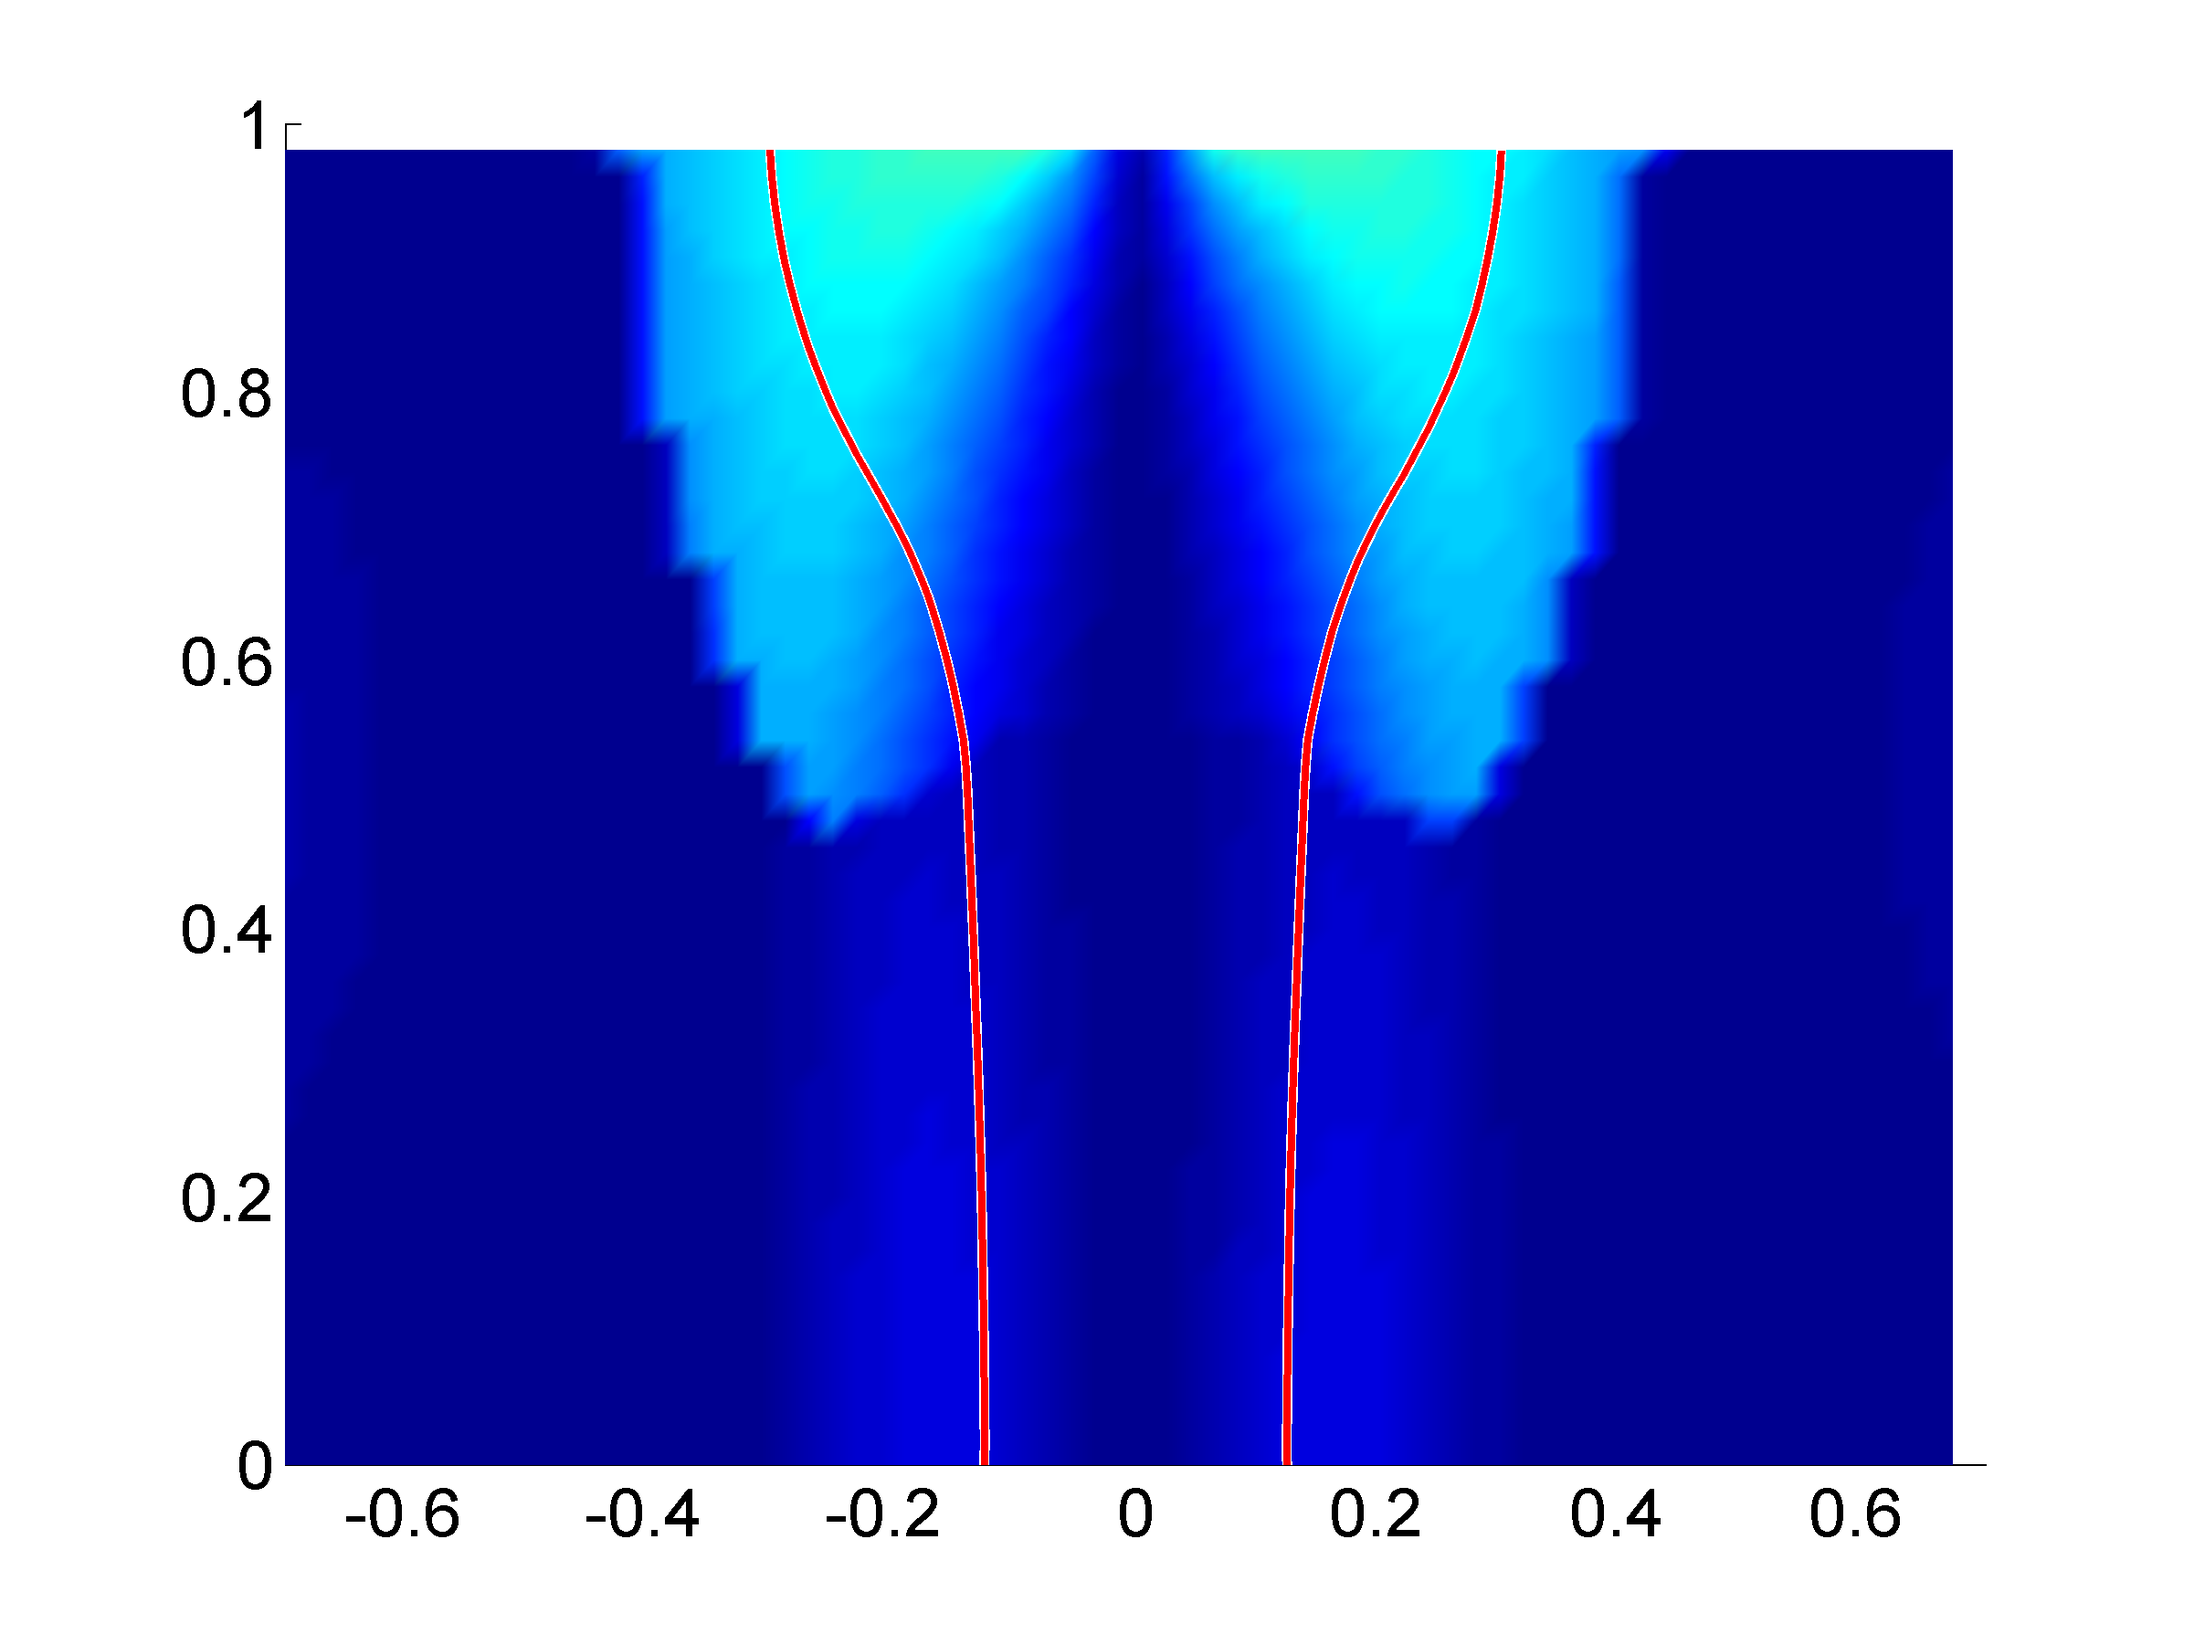
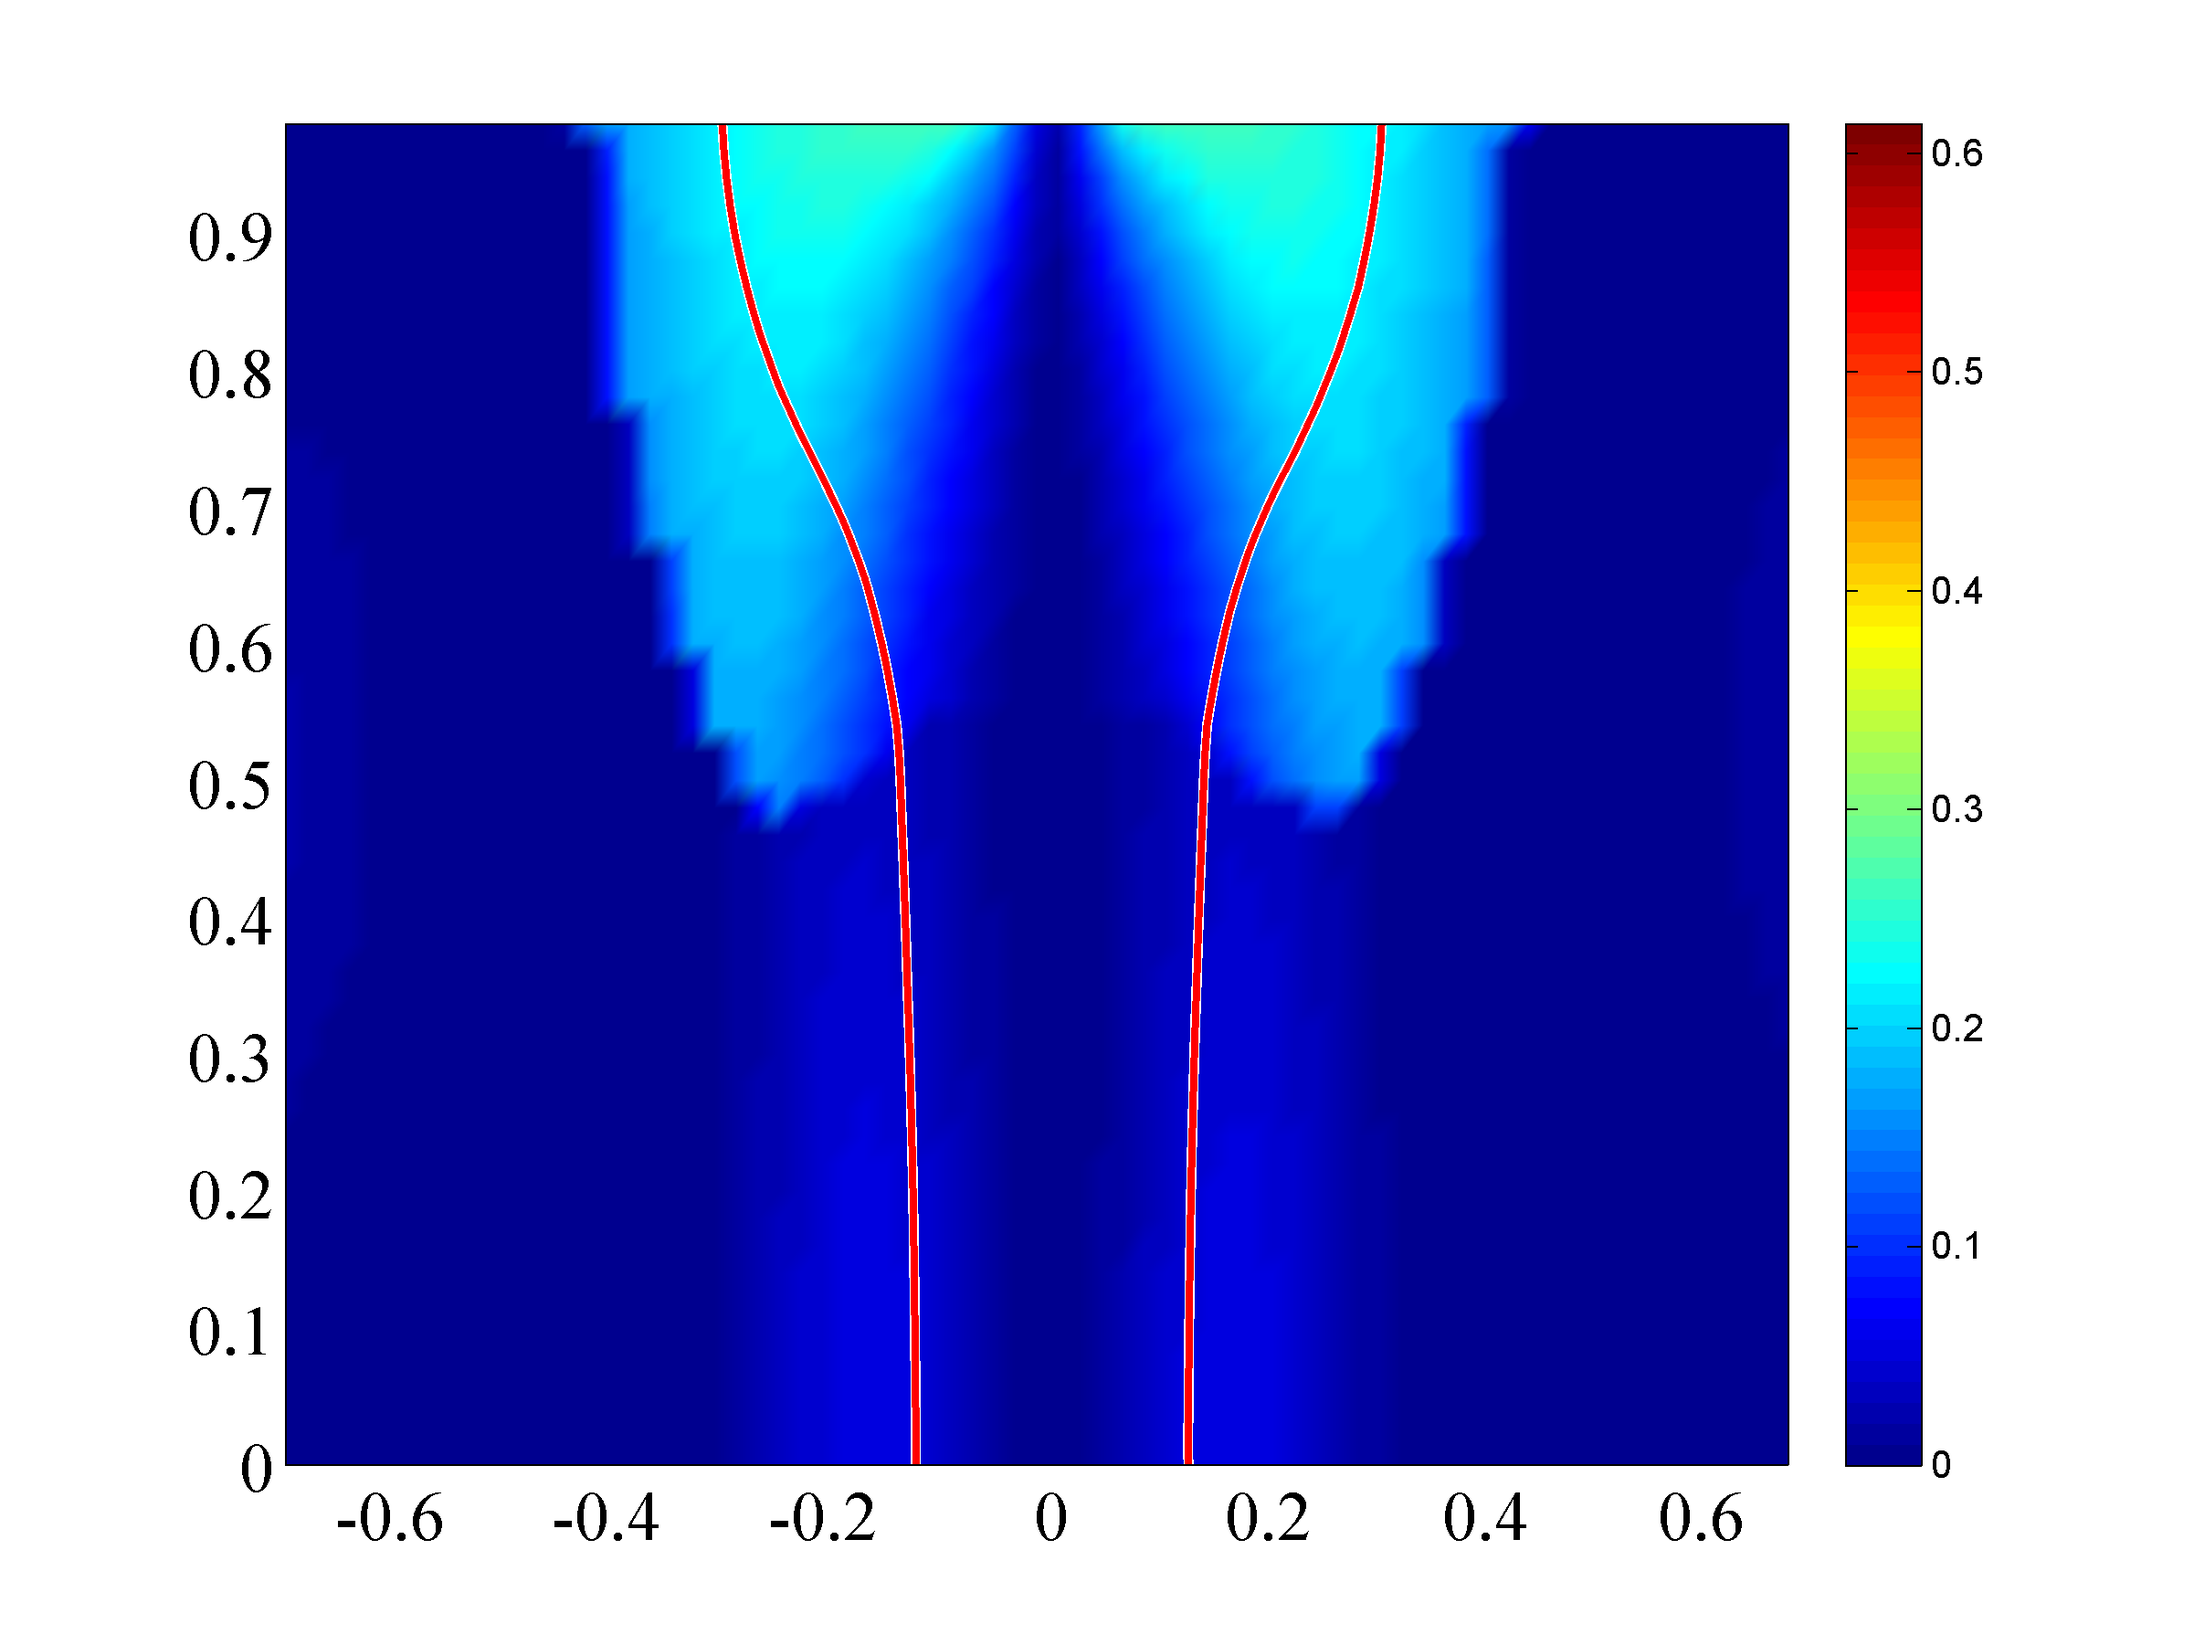
Starte dwork on the 110 slice band character

diff --git a/Chapter-dHvABaFe2P2/Figures/AngleDepMeasurements/BandCharacterPlot/plot_band_character_grid.m b/Chapter-dHvABaFe2P2/Figures/AngleDepMeasurements/BandCharacterPlot/plot_band_character_grid.m
@@ -16,15 +16,26 @@ load(['Band' num2str(BAND_NUM) '_110Slice_BandCharacter']);
 for splt = 1:5
     figure;
     hold on;
-    pcolor(interp_grid_x, interp_grid_y, character{splt + 5});
-    xlim([-sqrt(2)/2, sqrt(2)/2]);
-    ylim([0, 1]);
+    ch = character{splt + 5};
+    disp(sprintf('Char %d max is %.4f and min is %.4f', splt, max(ch(:)), min(ch(:))));
+    pcolor(interp_grid_x, interp_grid_y, ch);
     shading interp;
     colormap('jet');
     contour(interp_grid_x, interp_grid_y, energies, [EF EF], 'Color', [1 1 1], 'LineWidth', 3);
     contour(interp_grid_x, interp_grid_y, energies, [EF EF], 'Color', color, 'LineWidth', 2);
     %myaa;
-    set(gca, 'FontSize', 18);
+    FONT_SIZE = 18;
+    set( get( gca, 'XLabel' ), 'FontSize', FONT_SIZE );
+    set( get( gca, 'YLabel' ), 'FontSize', FONT_SIZE );
+    set( get( gca, 'ZLabel' ), 'FontSize', FONT_SIZE );
+    set( gca, 'FontSize', FONT_SIZE);
+    set( gca, 'FontName', 'Times New Roman');
+    set(gcf, 'Color', [1 1 1])
+    set(gca, 'Color', 'none')
+    box on;
+    colorbar;
+    xlim([min(interp_grid_x(:)) max(interp_grid_x(:))]);
+    ylim([min(interp_grid_y(:)) max(interp_grid_y(:))]);
     print(sprintf(SAVE_FILESTEM, splt), '-dpng', '-r300');
     hold off;
 end
